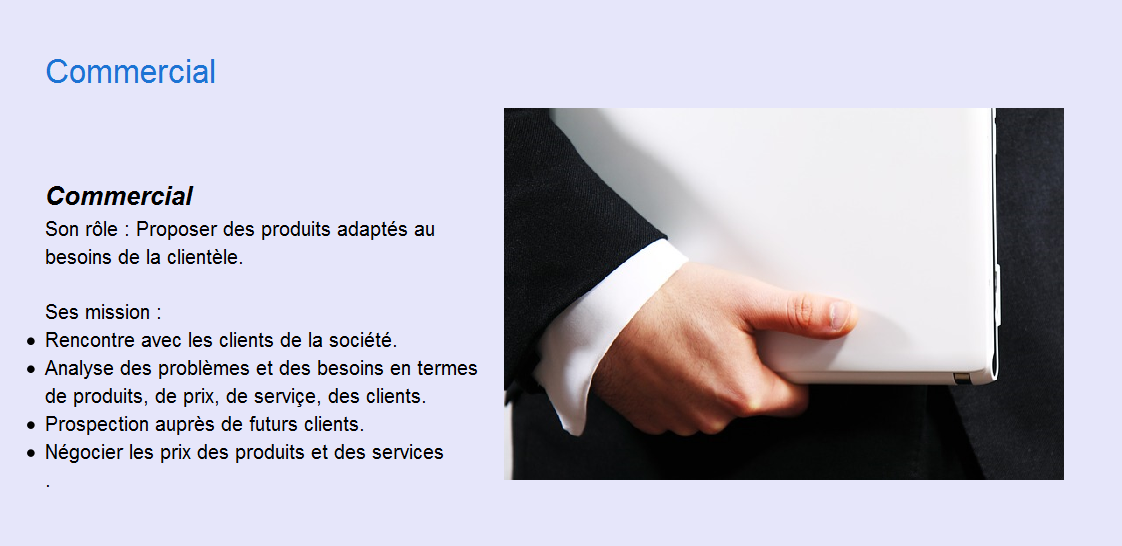
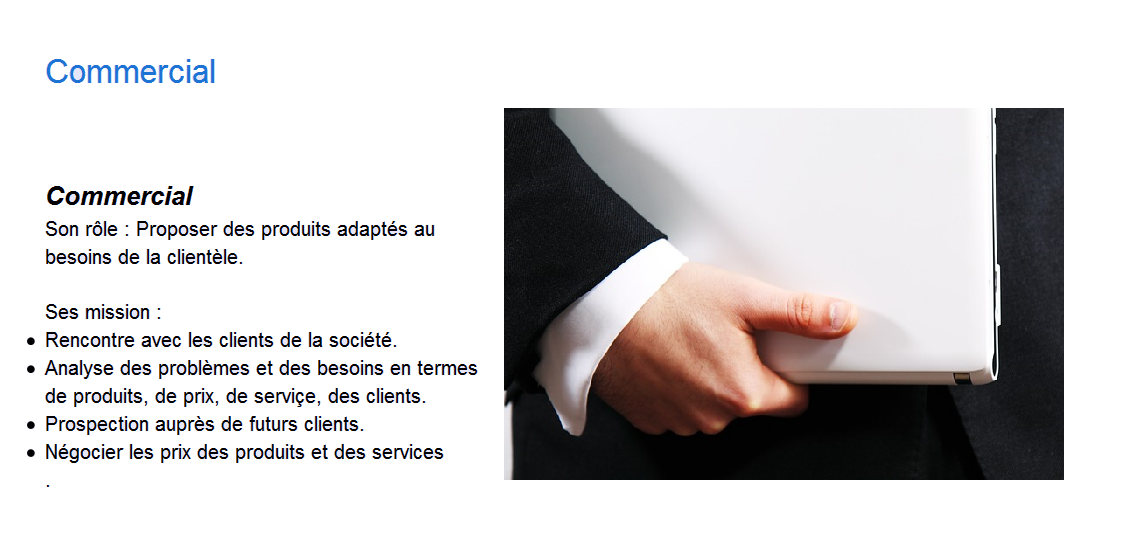
21/01/2016-v3
21/01/2016-v3

diff --git a/Site_internet/apsaroke.css b/Site_internet/apsaroke.css
@@ -1,8 +1,8 @@
 html{
-    background-image: url("image/fondApsa.png");
-    background-size: cover;
+    background-image: url("image/fondvibel.png");
+    background-size: 100% 100%;
     width: 100%;
-    margin: auto;
+    height: auto;
 }
 
 body {
@@ -183,7 +183,7 @@ footer {
 }
 
 .container-text-cadre {
-    padding: 30px;
+    padding-top: 30px;
     color: #848484;
     background-color: white;
     height: 488px;
@@ -191,6 +191,8 @@ footer {
     border-radius: 10px;
     border: 1px solid black;
     width:97%;
+    margin-top: 50px;
+    margin-bottom: 90px;
 }
 
 .imgFoot {
@@ -295,7 +297,7 @@ top: 0px;
 .carousel-page {
     width: 100%;
     height: 385px;
-    background-color: #E6E6FA;
+    background-color: white;
     color: black;
 }
 
@@ -304,36 +306,22 @@ top: 0px;
     margin-top: 390px; 
     margin-left: -30px;
     width: 50px;
+    height: 55px;
 background-image:linear-gradient(white, black);
 }
 
 .carousel-control.left {
+    border-radius : 50px;
     margin-left: -0px;
     background-image: linear-gradient(to right, rgba(0, 92, 254, 0.5) 25px, rgba(231, 17, 254, 0) 100%);
     background-repeat: repeat-x;
 }
 
 .carousel-control.right{
+    border-radius : 50px;
     margin-left: -0px;
     background-image: linear-gradient(to left, rgba(0, 92, 254, 0.5) 25px, rgba(231, 17, 254, 0) 100%);
     background-repeat: repeat-x;
-}
-
-.blocDroit
-/* menu */
-
-{
-    height: 488px;
-    background-color: #FFFFFF;
-    border-radius: 5px;
-    color: black;
-    /* couleur noire*/
-    padding-left: 25px;
-    margin-right: 13px;
-    margin-left: -20px;
-      border-radius: 10px;
-    border: 1px solid black;
-    
 }
 
 .img-societe
@@ -342,23 +330,8 @@ background-image:linear-gradient(white, black);
     width: 100%; 
     height: 400px; 
     opacity:0.3;
-}html {
-    position: relative;
-    background-image: url("image/fondvibe.png");
-    background-size: cover;
-    width: 100%;
-    height: auto;
+    padding-bottom: 50px;
 }
-
-body {
-    width: 80%;
-    /* Pour fixer la largeur de la page */
-    height: auto;
-    margin: auto;
-    /* Pour centrer la page */
-    background-color: #E6E6FA;
-}
-
 .header_page {
     margin-left: 12.5px;
     margin-top: 55px;
@@ -385,17 +358,18 @@ body {
 /* menu */
 
 {
-    margin-top: 10px;
-    margin-left: 5px;
+    margin-top: 50px;
     float: right;
     width: 225px;
-    height: 440px;
+     height: 488px;
     background-color: #FFFFFF;
     border-radius: 5px;
     color: black;
     /* couleur noire*/
-    padding: 10px;
+    padding-left: 15px;
+    padding-top: 30px;
     margin-right: 13px;
+    
     
 }
 
@@ -452,56 +426,21 @@ li {
     list-style-type: none;
 }
 
-#navbar {
-    background-color: #a7bdff;
-    text-color: black;
-    background-image: linear-gradient(to bottom, grey, white);
-}
-
-.gras {
-    color: black;
-}
-
 .Apsaroke {
     font: bold 17px Mistral, Arial, Helvetica, sans-serif;
     color: #1c73d3;
-}
-
-#blocContact {
-    width: 210px;
-    background-color: white;
-    border-radius: 10px;
-    margin-left: 10px;
-    /* marge ext. gauche pour ne pas coller à l'article */
-    padding: 20px;
-    /* marge intérieure pour le texte */
-    font-size: 0.9em;
-    border-top: darkgrey 0.5px;
-}
-
-h3 {
-    color: deeppink;
-    text-decoration: underline;
-}
-
-.liste {
-    text-align: justify;
-    margin-left: 75px;
 }
 
 .imgFoot {
     width: 75px;
     height: 75px;
     float: left;
-    margin-top: 180px;
-    margin-left: 30px;
 }
 
 footer {
     background-image: url("image/footer.png");
     background-size: cover;
     height: 140ghpx;
-    margin-bottom: 10px;
 }
 
 
@@ -531,124 +470,6 @@ footer {
     ;
 }
 
-.vibe {
-    color: deeppink;
-    font-weight: bold;
-}
-
-.rejoindre {
-    color: black;
-    margin-top: 10px;
-    margin-left: 12.5px;
-    height: 500px;
-    width: 760px;
-    /* largeur du bloc */
-    text-align: justify;
-    border-radius: 10px;
-    background-color: #FFFFFF;
-    padding: 30px;
-    border: 1px solid black;
-    font-size: 18px;
-}
-
-.cv {
-    color: deeppink;
-    font-size: 15px;
-}
-
-.nousrejoindre {
-    color: deeppink;
-}
-
-.imgsponso {
-    position: absolute;
-    width: auto;
-    height: 100px;
-    margin-top: 0px;
-    padding: inherit;
-    margin-left: 250px;
-}
-
-.header_sponso {
-    margin-left: 12.5px;
-    margin-top: 55px;
-    width: 990px;
-    height: 100px;
-    background-color: grey;
-    color: grey;
-    border-radius: 10px;
-    background-image: linear-gradient(white, grey);
-    border: 1px solid black;
-    margin-right: 12.5px;
-}
-
-.mentionsSponso {
-    width: 500px;
-    height: 100px;
-    float: right;
-    color: #808080;
-    padding-right: 15px;
-    padding-top: 5px;
-    text-align: right;
-    font-size: 10px;
-}
-
-.piedPageponso {
-    width: 75px;
-    height: 75px;
-    float: left;
-    margin-left: 30px;
-}
-
-.articlesponso {
-    margin-top: 10px;
-    margin-left: 12.5px;
-    height: 500px;
-    width: 750px;
-    /* largeur du bloc */
-    color: black;
-    text-align: justify;
-    border-radius: 10px;
-    background-color: #FFFFFF;
-    border: 1px solid black;
-    font-size: 15px;
-    ;
-}
-
-.sponso1 {
-    margin-top: 20px;
-    height: 200px;
-}
-
-.sponso2 {
-    margin-top: -50px;
-    height: 200px;
- 
-}
-
-
-/* Image de taille plus important que prévue */
-
-.sponso3 {
-    margin-left: 315px;
-    margin-top: -20px;
-    height: 270px;
-}
-
-.indien {
-    margin-left: -20px;
-    height: 400px;
-       margin-left: 5px;
-}
-
-.livibe {
-    text-align: justify;
-    color: black;
-    font-weight: 100;
-}
-
-
-
 #myBtn
 {
     margin-left: 44%;
@@ -662,24 +483,5 @@ footer {
     color: #555;
     font-weight: bold;
 }
-.carousel-page {
-    width: 100%;
-    height: 400px;
-    background-color: #fffff;
-    color: white;
-	-webkit-transition: 30s ease-in-out left;
-       -o-transition: 30s ease-in-out left;
-          transition: 30s ease-in-out left;
-    
-}
-.carousel-control.left
-{
-    background: none;
-}
-.carousel-control.right
-{
-    background: pink;
-}
-
 
 

diff --git a/Site_internet/societe.html b/Site_internet/societe.html
@@ -97,7 +97,7 @@
    
 	<!-- Page 3 -->
 	<div class="item"> 
-	<div class="carousel-page" style="background-color: white; ">
+	<div class="carousel-page" style="background-color: white; padding-left: 15px; padding-top: 20px; font-size: 20px;">
        <div style="text-align: justify; font-weight:bold; color: #383838; ">
                         
 <!-- image Freepick: libre de droit et gratuite / http://fr.freepik.com/vecteurs-libre/partager-cle-illustration-vectorielle_717326.htm -->                        
@@ -121,12 +121,12 @@
 	</div>  
         <!-- page 4 -->
         <div class="item"> 
-	<div class="carousel-page" style="background-color: white; ">
+	<div class="carousel-page" style="background-color: white;  padding-left: 15px; padding-top: 20px; font-size: 20px;">
        <div style="text-align: justify; font-weight:bold; color: #383838; ">
     
            <!-- image Freepick: libre de droit et gratuite /
 http://www.channelbiz.fr/2012/03/28/optic-2000-va-installer-lerp-microsoft-dynamics-ax-2012-for-retail-dans-tous-ses-points-de-vente/       -->                                
- <img src="image/images_freepick/consulting.jpg" class="img-societe" />
+ <img src="image/images_freepick/consulting.jpg" class="img-societe"/>
                                                            
                                              <h1 style="text-align: center; position: relative; padding: 20px; font-size: 20px;"><span class="apsarokeG">APSAROKE</span>                             Consulting:</h1> 
                             <div style="width: 100%; padding: 30px; font-size: 20px;">
@@ -146,7 +146,7 @@ http://www.channelbiz.fr/2012/03/28/optic-2000-va-installer-lerp-microsoft-dynam
 	</div>  
         <!-- page 5 -->
                 <div class="item"> 
-	<div class="carousel-page"  style="background-color: white; ">
+	<div class="carousel-page"  style="background-color: white;  padding-left: 15px; padding-top: 20px; font-size: 20px;">
        <div style="text-align: justify; font-weight:bold; color: #383838;">
                         
 <!-- image Freepick: libre de droit et gratuite / http://fr.freepik.com/index.php?goto=41&idd=685976&url=aHR0cDovL3d3dy5mcmVldmVjdG9ycy5jb20vY2xvdWQtaG9zdGluZy8= -->                                                    

diff --git a/Site_internet/accueil.html b/Site_internet/accueil.html
@@ -113,7 +113,7 @@
                 </div>
               
                                         
-<div class="col-lg-3">
+<div class="col-lg-3" >
             <div class="blocDroit">
                 <h3> Contact : </h3>
                 <a href="https://www.google.fr/maps/place/Apsaroke/@45.7448402,4.830118,17z/data=!3m1!4b1!4m2!3m1!1s0x47f4ea3602b7e115:0x252e46546a50147a"><p>8, rue Victor Lagrange
